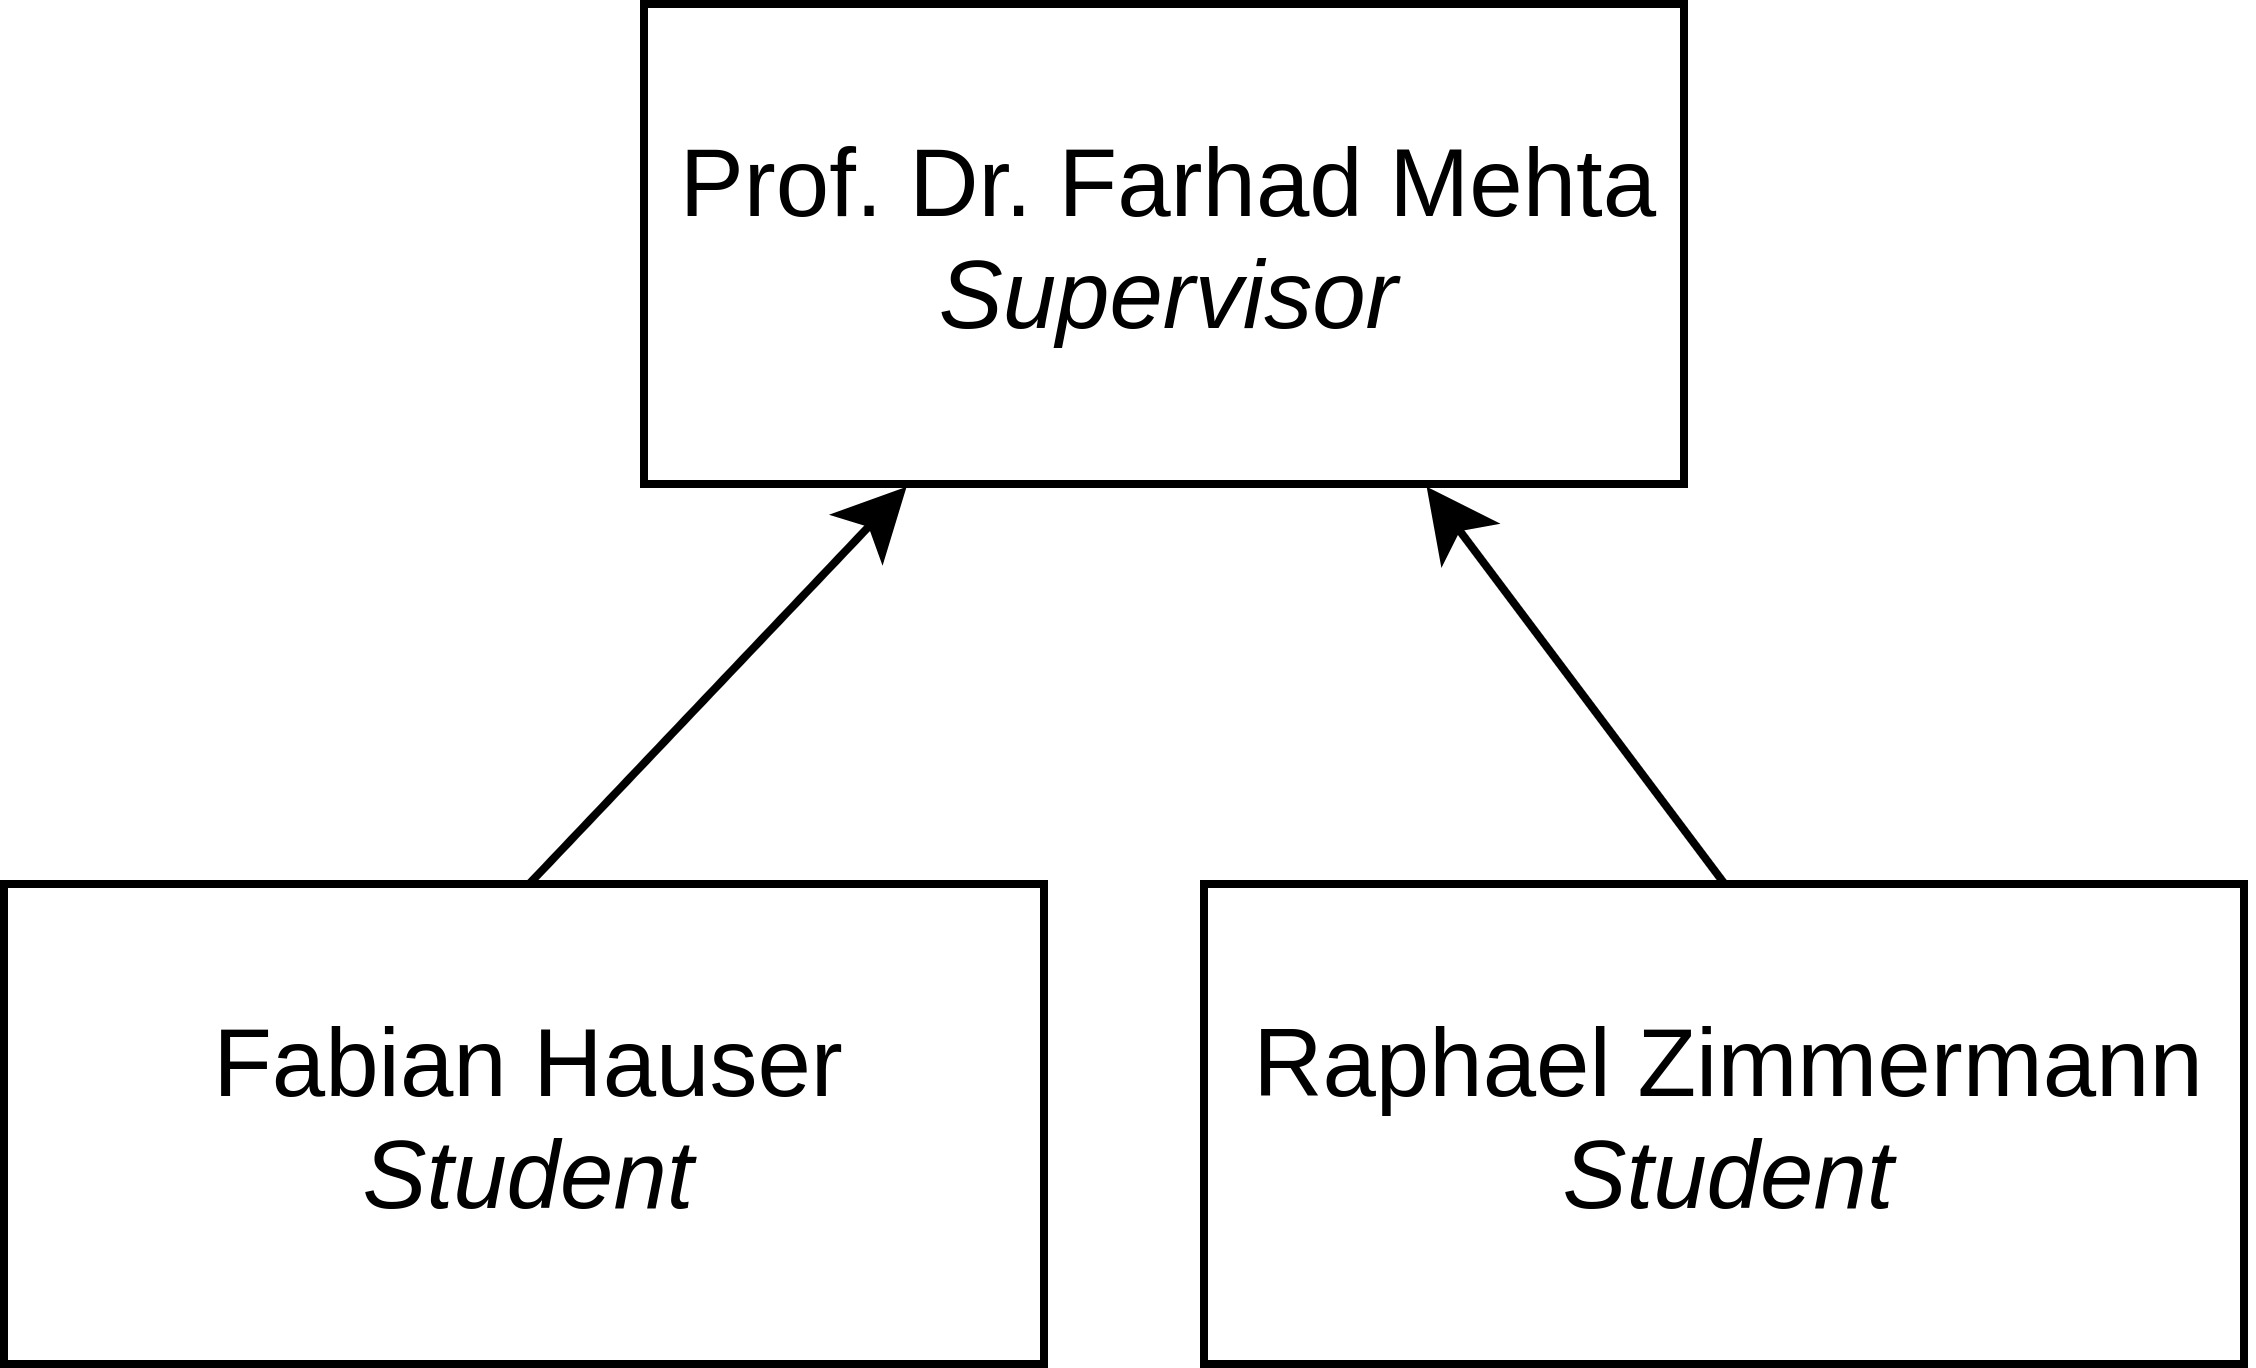
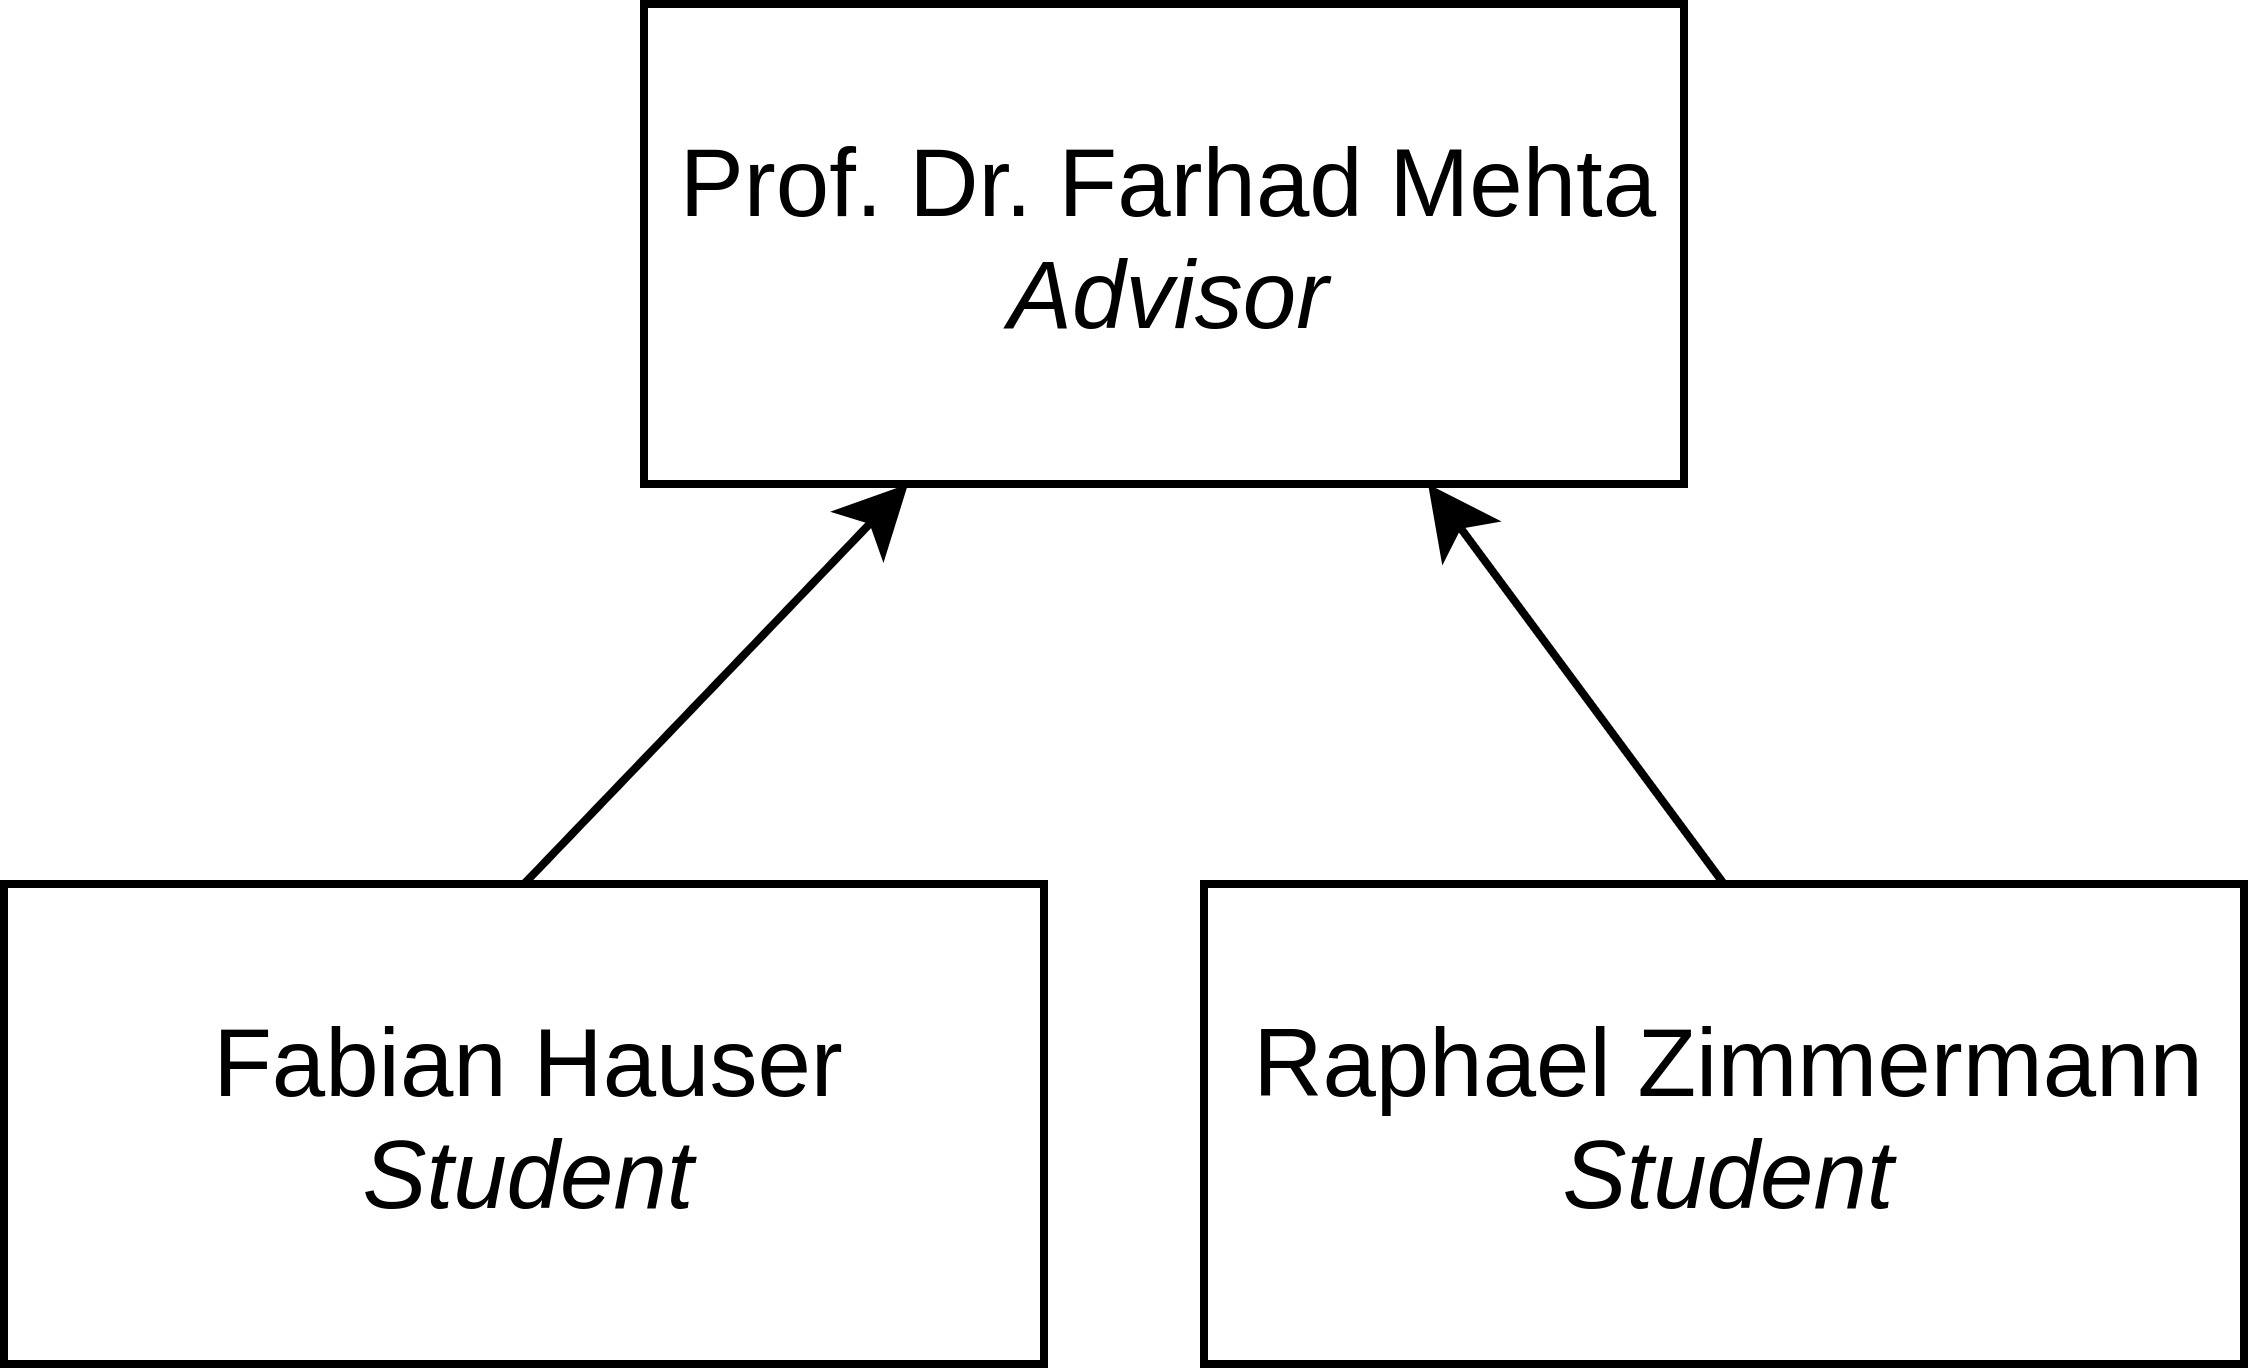
Minor language fixes. Change Role from supervisor to advisor

diff --git a/project-plan/project-plan.tex b/project-plan/project-plan.tex
@@ -27,7 +27,7 @@ The project setting, vision, goals, as well as all other project boundaries, are
 
 \subsection{Components}
 
-For a better overview and to allow us a sophisticated time assessment, we decided to group our tasks into categories i.e. JIRA components. Components represent documents or products which are to be released.
+For a better overview and to allow us a sophisticated time assessment, we decided to group tasks into categories, i.e. JIRA components. Components represent documents or products which are to be released.
 
 Currently, tasks are separated into following components:
 
@@ -44,7 +44,7 @@ Currently, tasks are separated into following components:
 
 \section{Project Organization}
 
-The project has a flat structure. All team members have the same strategic rights and duties. Prof. Dr Farhad Mehta is the project supervisor and is therefore superior in the organization chart as visible in Figure \ref{fig:organigram}.
+The project has a flat structure. All team members have the same strategic rights and duties. Prof. Dr Farhad Mehta is the project advisor and is therefore superior in the organization chart as visible in Figure \ref{fig:organigram}.
 
 \begin{figure}[H]
 	\centering
